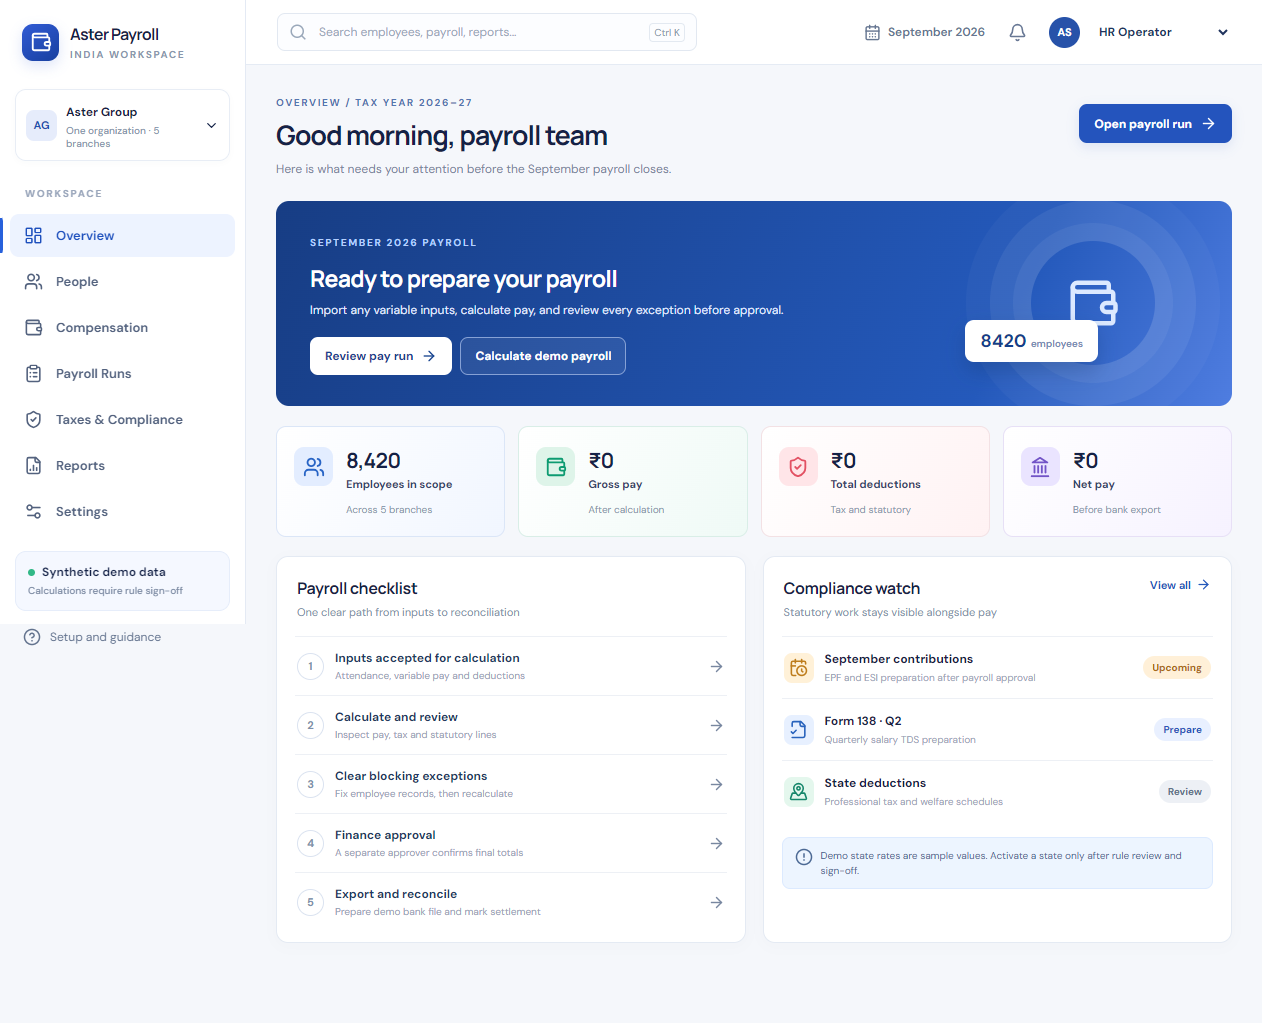
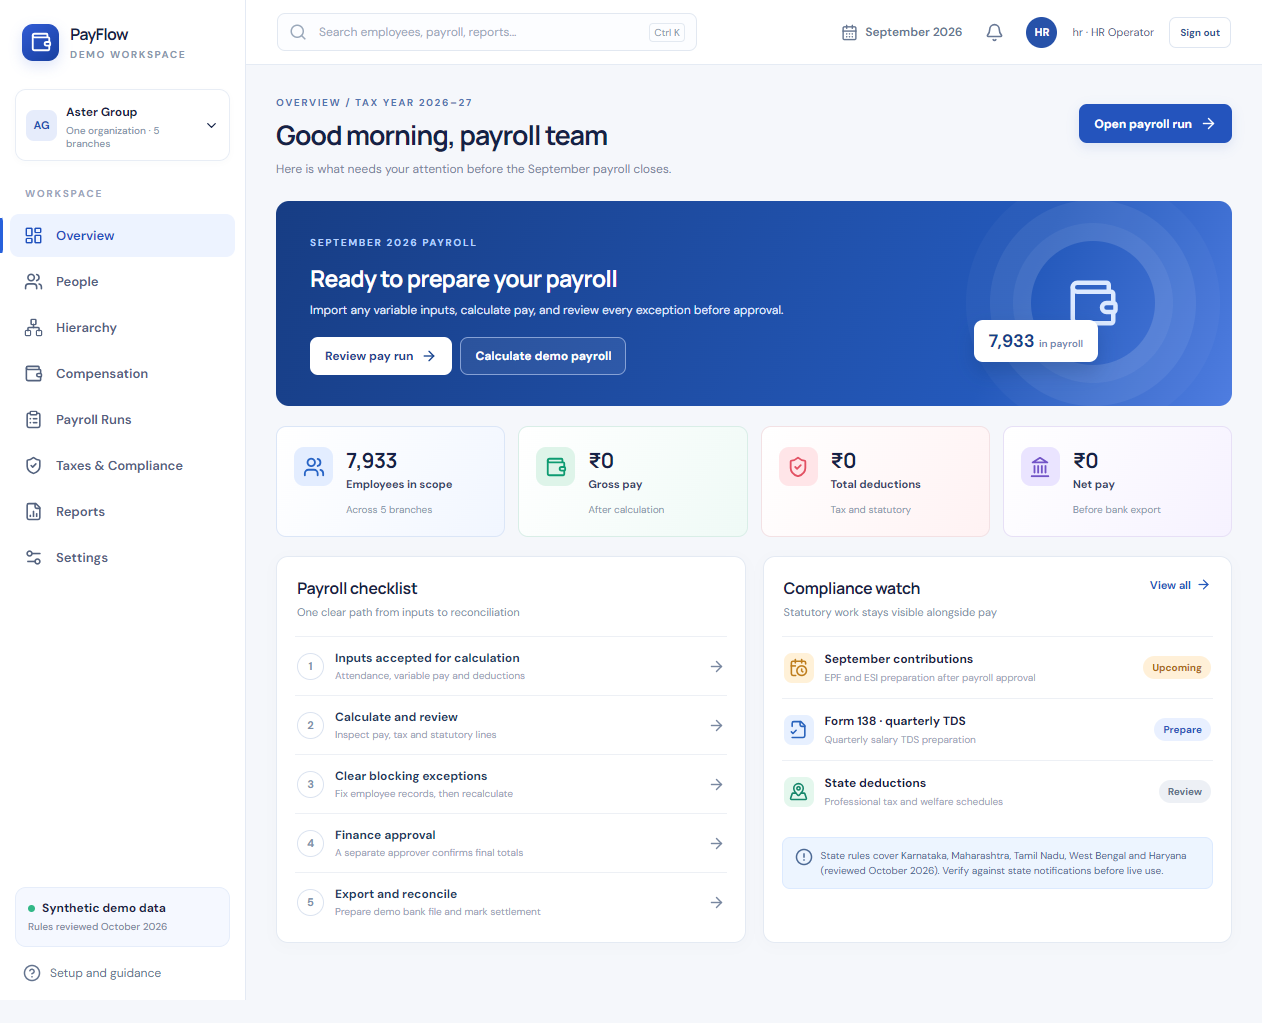
docs: update README and screenshots for the Phase 1 architecture

diff --git a/README.md b/README.md
@@ -1,5 +1,7 @@
 # PayFlow — India payroll workspace
 
+[![CI](https://github.com/mehulp007/PayFlow/actions/workflows/ci.yml/badge.svg)](https://github.com/mehulp007/PayFlow/actions/workflows/ci.yml)
+
 PayFlow is a full-stack payroll application for Indian companies. It covers the whole monthly cycle: employee
 records and hierarchy, CSV input import with validation, salary calculation (income tax, EPF, ESI and state
 deductions), exception review, maker-checker approval, payslips, statutory preparation reports and an audit trail.
@@ -9,35 +11,54 @@ Employees get a self-service portal for their own record, tax-regime choice and 
 > October 2026, but it is not a certified payroll product and its exports are not government or bank upload
 > formats. See [compliance notes](docs/compliance-notes.md).
 
+![Payroll review](docs/screenshots/payroll-review.png)
+
 ## Roadmap
 
 PayFlow is being rebuilt from its first prototype in phases. Each phase is committed and pushed when complete.
 
-| Phase | Scope | Status |
-|---|---|---|
-| 0 · Baseline & cleanup | Rebrand to PayFlow, remove hosting/mobile code, run locally with zero setup | ✅ Done |
-| Compliance review | Rules updated to October 2026 regulations: Labour Codes wage definition, EPF ₹25,000 ceiling with the September split, ESI period rules, state PT/LWF | ✅ Done |
-| 1 · Engineering foundation | Shared Zod schemas, Drizzle migrations, modular Fastify API, React Router + TanStack Query, readable components, Vitest + API integration tests, CI | ⏳ Next |
-| 2 · Multi-tenant sandbox | Sign up and create an organization, start empty or load a sample company, tenant isolation, invitations, any pay period, salary revisions, state rule tables | Planned |
-| 3 · Features | Payslip PDFs and history, tax-regime calculator, analytics dashboard, leave & attendance, notifications, Ctrl-K palette, dark mode, audit log page | Planned |
-| 4 · Docs polish | Refreshed screenshots, architecture walkthrough | Planned |
+| Phase                      | Scope                                                                                                                                                                  | Status  |
+| -------------------------- | ---------------------------------------------------------------------------------------------------------------------------------------------------------------------- | ------- |
+| 0 · Baseline & cleanup     | Rebrand to PayFlow, remove hosting/mobile code, run locally with zero setup                                                                                            | ✅ Done |
+| Compliance review          | Rules updated to October 2026 regulations: Labour Codes wage definition, EPF ₹25,000 ceiling with the September split, ESI period rules, state PT/LWF                  | ✅ Done |
+| 1 · Engineering foundation | Shared Zod schemas, Drizzle migrations, modular Fastify API, React Router + TanStack Query, readable components and CSS, unit/integration/end-to-end tests, ESLint, CI | ✅ Done |
+| 2 · Multi-tenant sandbox   | Sign up and create an organization, start empty or load a sample company, tenant isolation, invitations, any pay period, salary revisions, state rule tables           | ⏳ Next |
+| 3 · Features               | Payslip PDFs and history, tax-regime calculator, analytics dashboard, leave & attendance, notifications, Ctrl-K palette, dark mode, audit log page                     | Planned |
+| 4 · Docs polish            | Architecture walkthrough and final screenshots                                                                                                                         | Planned |
 
-## Tech stack
-
-| Part | Stack |
-|---|---|
-| `apps/web` | React 19, Vite, TypeScript, lucide-react icons, hand-written CSS |
-| `apps/api` | Node.js 24, Fastify 5, TypeScript, PGlite (embedded PostgreSQL) or PostgreSQL |
-| `packages/core` | Pure TypeScript payroll and tax calculation library (all money in integer paise) |
+## Architecture
 
 ```mermaid
 flowchart LR
-  Web["React web app<br/>apps/web"] -->|"HTTP /api"| API["Fastify API<br/>apps/api"]
-  API -->|"calculatePayroll()"| Core["Calculation library<br/>packages/core"]
-  API --> Store["SQL adapter<br/>apps/api/src/db.ts"]
-  Store -->|"default"| Local[(PGlite in ./data)]
-  Store -->|"DATABASE_URL set"| PG[(PostgreSQL)]
+  subgraph Browser
+    Web["apps/web<br/>React 19 · React Router · TanStack Query"]
+  end
+  subgraph Node["Node.js 24"]
+    API["apps/api<br/>Fastify 5 · Zod validation"]
+    Core["packages/core<br/>payroll and tax rules"]
+    DB["Drizzle ORM + migrations"]
+  end
+  Shared["packages/shared<br/>roles, permissions, schemas, types"]
+  Web -->|"HTTP /api (bearer session)"| API
+  API --> Core
+  API --> DB
+  DB -->|"default"| PGlite[("PGlite (embedded) in ./data")]
+  DB -->|"DATABASE_URL set"| PG[("PostgreSQL")]
+  Shared -.-> Web
+  Shared -.-> API
 ```
+
+| Workspace         | Responsibility                                                                                                                                                                       |
+| ----------------- | ------------------------------------------------------------------------------------------------------------------------------------------------------------------------------------ |
+| `packages/core`   | Pure calculation library in integer paise: income tax, Labour Codes wages, EPF/EPS/EDLI, ESI, state PT/LWF. No I/O.                                                                  |
+| `packages/shared` | One source of truth used by both apps: roles and the permission matrix, Zod request schemas and response types.                                                                      |
+| `apps/api`        | Fastify app built by `buildApp()`. Feature modules (`auth`, `employees`, `runs`) each have routes and a service; a preHandler resolves the session and enforces permissions.         |
+| `apps/web`        | React app with real URLs (`/overview`, `/payroll`, `/hierarchy`, `/me`, …), a TanStack Query data layer, shared UI components and design tokens in CSS split by area (`src/styles`). |
+
+**Database.** The schema lives in [`apps/api/src/db/schema.ts`](apps/api/src/db/schema.ts). SQL migrations are
+generated with `npm run db:generate -w @payflow/api` and applied automatically at start-up. PGlite (real
+PostgreSQL compiled to WebAssembly) runs inside the API process, so there is nothing to install; set
+`DATABASE_URL` to use a PostgreSQL server instead.
 
 ## Quick start
 
@@ -49,30 +70,30 @@ npm run dev
 ```
 
 Open <http://127.0.0.1:5173>. The API runs on port 4000. On first launch it creates a synthetic company
-("Aster Group", 8,420 fictional people across five Indian states) in `data/payroll-pg`.
+("Aster Group", 8,420 fictional people across five Indian states) in `data/db`.
 
 ### Sign in
 
 Six accounts are created on first launch, each with its own random password. The passwords are written to
 `data/individual-demo-credentials.txt` on your machine (ignored by Git).
 
-| Username | Role |
-|---|---|
-| `admin` | Organization admin: manage accounts, reset demo data |
-| `hr` | HR operator: people, hierarchy, payroll preparation |
-| `payroll` | Payroll operator: import and calculate |
-| `finance` | Finance approver: approve and reconcile |
-| `auditor` | Read-only review and reports |
-| `employee` | Employee self-service for `EMP00001` |
+| Username   | Role                                                 |
+| ---------- | ---------------------------------------------------- |
+| `admin`    | Organization admin: manage accounts, reset demo data |
+| `hr`       | HR operator: people, hierarchy, payroll preparation  |
+| `payroll`  | Payroll operator: import and calculate               |
+| `finance`  | Finance approver: approve and reconcile              |
+| `auditor`  | Read-only review and reports                         |
+| `employee` | Employee self-service for `EMP00001`                 |
 
-To use an external PostgreSQL database instead of the embedded one, set `DATABASE_URL` before `npm run dev`.
+To start over, stop the app and delete the `data/` folder.
 
 ## Try the payroll journey
 
 1. Sign in as `hr` and open **Payroll Runs**. Import [sample inputs](samples/payroll-inputs.csv) or use the
    preloaded ones, then **Calculate**.
 2. Twelve employees have missing bank details, which block submission. Verify them from the **Needs attention**
-   panel and recalculate.
+   panel and recalculate. Open any row to see its calculation trace and the rules applied.
 3. **Send for approval**, then sign in as `finance` and approve. The preparer can never approve their own run.
 4. Export the demo bank file and preparation reports, then simulate reconciliation.
 5. Sign in as `employee` to see only your own record, choose a tax regime (while the run is in draft) and view the
@@ -94,23 +115,38 @@ To use an external PostgreSQL database instead of the embedded one, set `DATABAS
   separate finance approval, and an audit event for every key action.
 - **People**: a searchable directory, an 8-level position hierarchy with five employment types, and contractors
   kept outside payroll.
-- **Access**: password sessions (scrypt hashing, hashed tokens, 12-hour expiry), role-based permissions, login
-  rate limiting, admin-issued one-time passwords and a forced first-password change.
+- **Access**: password sessions (scrypt hashing, hashed tokens, 12-hour expiry), a shared role-permission matrix,
+  login rate limiting and lockout, admin-issued one-time passwords and a forced first-password change.
 
-## Interface (v1 screenshots)
+## Interface
 
-![Sign-in](docs/screenshots/login.png)
-![Overview](docs/screenshots/hr-overview.png)
-![Payroll review](docs/screenshots/payroll-review.png)
-![Employee portal](docs/screenshots/employee-portal.png)
+| Sign-in                                                      | Overview                                                 |
+| ------------------------------------------------------------ | -------------------------------------------------------- |
+| ![Sign-in](docs/screenshots/login.png)                       | ![Overview](docs/screenshots/hr-overview.png)            |
+| **Calculation trace**                                        | **Employee portal**                                      |
+| ![Calculation trace](docs/screenshots/calculation-trace.png) | ![Employee portal](docs/screenshots/employee-portal.png) |
+
 ![Hierarchy](docs/screenshots/hierarchy.png)
+
+## Testing
+
+| Command             | What it checks                                                                                                       |
+| ------------------- | -------------------------------------------------------------------------------------------------------------------- |
+| `npm test`          | 30 statutory rule cases in the calculation library, and 23 API integration tests against an in-memory database       |
+| `npm run e2e`       | Playwright journey in a real browser: HR prepares, Finance approves and reconciles, the employee views their payslip |
+| `npm run typecheck` | TypeScript across all four workspaces                                                                                |
+| `npm run lint`      | ESLint (TypeScript and React hooks rules)                                                                            |
+| `npm run format`    | Prettier                                                                                                             |
+
+The API tests boot the real app with `buildApp()` on PGlite in memory, covering sessions and lockout, the
+temporary-password gate, role permissions, employee self-service limits, hierarchy validation, imports, the
+exception gate, maker-checker approval, exports and demo reset. Locally, `npm run e2e` uses Microsoft Edge; CI
+installs Chromium. GitHub Actions runs every check on each push.
 
 ## Scripts
 
-| Command | What it does |
-|---|---|
-| `npm run dev` | Start the API and web app together |
-| `npm run typecheck` | Type-check every workspace |
-| `npm test` | Run the calculation library tests (30 statutory rule cases) |
-| `npm run build` | Production build of all workspaces |
-| `npm run smoke` | End-to-end API check against a running local API (full run, access control, approval gate) |
+| Command                               | What it does                                  |
+| ------------------------------------- | --------------------------------------------- |
+| `npm run dev`                         | Start the API and web app together            |
+| `npm run build`                       | Production build of all workspaces            |
+| `npm run db:generate -w @payflow/api` | Generate a migration after editing the schema |

diff --git a/docs/compliance-notes.md b/docs/compliance-notes.md
@@ -11,15 +11,15 @@ against the official portals before relying on any figure.
 
 ### Income tax: Income-tax Act, 2025 (in force from 1 April 2026), tax year 2026-27
 
-| Item | Rule |
-|---|---|
-| New regime (default) | Nil to ₹4L · 5% to ₹8L · 10% to ₹12L · 15% to ₹16L · 20% to ₹20L · 25% to ₹24L · 30% above |
-| Old regime | Nil to ₹2.5L (₹3L at 60+, ₹5L at 80+) · 5% to ₹5L · 20% to ₹10L · 30% above |
-| Standard deduction | ₹75,000 new regime, ₹50,000 old regime |
-| Rebate | New: up to ₹60,000 for taxable income up to ₹12L, with marginal relief just above. Old: up to ₹12,500 up to ₹5L |
-| Surcharge and cess | 10% / 15% / 25% / 37% (new regime capped at 25%) with marginal relief; 4% health and education cess |
+| Item                 | Rule                                                                                                                                                                                                                                                                                                              |
+| -------------------- | ----------------------------------------------------------------------------------------------------------------------------------------------------------------------------------------------------------------------------------------------------------------------------------------------------------------- |
+| New regime (default) | Nil to ₹4L · 5% to ₹8L · 10% to ₹12L · 15% to ₹16L · 20% to ₹20L · 25% to ₹24L · 30% above                                                                                                                                                                                                                        |
+| Old regime           | Nil to ₹2.5L (₹3L at 60+, ₹5L at 80+) · 5% to ₹5L · 20% to ₹10L · 30% above                                                                                                                                                                                                                                       |
+| Standard deduction   | ₹75,000 new regime, ₹50,000 old regime                                                                                                                                                                                                                                                                            |
+| Rebate               | New: up to ₹60,000 for taxable income up to ₹12L, with marginal relief just above. Old: up to ₹12,500 up to ₹5L                                                                                                                                                                                                   |
+| Surcharge and cess   | 10% / 15% / 25% / 37% (new regime capped at 25%) with marginal relief; 4% health and education cess                                                                                                                                                                                                               |
 | Monthly TDS (s. 392) | Annual tax is projected from salary paid earlier in the year, this month's actual pay and regular pay for the remaining months. Months before joining are not counted, and this month's loss of pay is not extrapolated. Tax already deducted is subtracted, and the balance is spread over the remaining months. |
-| Returns | Quarterly salary TDS statement is **Form 138** (replaces 24Q); the annual certificate is **Form 130** (replaces Form 16) |
+| Returns              | Quarterly salary TDS statement is **Form 138** (replaces 24Q); the annual certificate is **Form 130** (replaces Form 16)                                                                                                                                                                                          |
 
 ### Wages: Code on Wages, 2019 and Code on Social Security, 2020 (in force from 21 November 2025)
 
@@ -31,33 +31,33 @@ against the official portals before relying on any figure.
 
 ### EPF, EPS and EDLI
 
-| Item | Rule |
-|---|---|
-| Wage ceiling | ₹15,000 until 16 Sep 2026; **₹25,000 from 17 Sep 2026** (S.O. 5109(E)) |
-| September 2026 | Split by days per EPFO FAQs: 1–16 Sep on the ₹15,000 ceiling, 17–30 Sep on ₹25,000, reported in one ECR |
-| Employee | 12% of PF wages (actual wages if the member contributes voluntarily above the ceiling) |
-| Employer | 8.33% EPS on wages within the ceiling (EPS members only); the rest of the 12% to EPF |
-| EPS exit | EPS stops on the 58th birthday (split by days that month); the full employer 12% then goes to EPF |
+| Item           | Rule                                                                                                           |
+| -------------- | -------------------------------------------------------------------------------------------------------------- |
+| Wage ceiling   | ₹15,000 until 16 Sep 2026; **₹25,000 from 17 Sep 2026** (S.O. 5109(E))                                         |
+| September 2026 | Split by days per EPFO FAQs: 1–16 Sep on the ₹15,000 ceiling, 17–30 Sep on ₹25,000, reported in one ECR        |
+| Employee       | 12% of PF wages (actual wages if the member contributes voluntarily above the ceiling)                         |
+| Employer       | 8.33% EPS on wages within the ceiling (EPS members only); the rest of the 12% to EPF                           |
+| EPS exit       | EPS stops on the 58th birthday (split by days that month); the full employer 12% then goes to EPF              |
 | EDLI and admin | 0.5% each (EDLI on wages within the ceiling). The ₹500/month establishment minimum is not applied per employee |
 
 ### ESI
 
-| Item | Rule |
-|---|---|
-| Rates | 0.75% employee, 3.25% employer, on statutory wages |
-| Ceiling | ₹21,000 a month, decided at the start of each contribution period (April–September, October–March). Coverage continues until the period ends even if wages rise |
-| Low wage | No employee share at an average daily wage up to ₹176 |
-| Rounding | Each share is rounded up to the next rupee |
+| Item     | Rule                                                                                                                                                            |
+| -------- | --------------------------------------------------------------------------------------------------------------------------------------------------------------- |
+| Rates    | 0.75% employee, 3.25% employer, on statutory wages                                                                                                              |
+| Ceiling  | ₹21,000 a month, decided at the start of each contribution period (April–September, October–March). Coverage continues until the period ends even if wages rise |
+| Low wage | No employee share at an average daily wage up to ₹176                                                                                                           |
+| Rounding | Each share is rounded up to the next rupee                                                                                                                      |
 
 ### State rules: professional tax and labour welfare fund
 
-| State | Professional tax | Labour welfare fund (employee + employer) |
-|---|---|---|
-| Karnataka | ₹200/month from ₹25,000 gross; ₹300 in February (2025 amendment) | ₹50 + ₹100, December |
-| Maharashtra | Men: ₹175 (₹7,501–10,000), ₹200 above; women exempt up to ₹25,000; ₹300 in February | ₹25 + ₹75, June and December |
-| Tamil Nadu | Greater Chennai Corporation half-yearly slab (₹180 to ₹1,250), deducted in September and March | ₹20 + ₹40, December |
-| West Bengal | ₹110 / ₹130 / ₹150 / ₹200 monthly slabs above ₹10,000 | ₹3 + ₹30, June and December |
-| Haryana | Not levied | 0.2% of wages up to ₹35 (from Jan 2026), employer twice, monthly |
+| State       | Professional tax                                                                               | Labour welfare fund (employee + employer)                        |
+| ----------- | ---------------------------------------------------------------------------------------------- | ---------------------------------------------------------------- |
+| Karnataka   | ₹200/month from ₹25,000 gross; ₹300 in February (2025 amendment)                               | ₹50 + ₹100, December                                             |
+| Maharashtra | Men: ₹175 (₹7,501–10,000), ₹200 above; women exempt up to ₹25,000; ₹300 in February            | ₹25 + ₹75, June and December                                     |
+| Tamil Nadu  | Greater Chennai Corporation half-yearly slab (₹180 to ₹1,250), deducted in September and March | ₹20 + ₹40, December                                              |
+| West Bengal | ₹110 / ₹130 / ₹150 / ₹200 monthly slabs above ₹10,000                                          | ₹3 + ₹30, June and December                                      |
+| Haryana     | Not levied                                                                                     | 0.2% of wages up to ₹35 (from Jan 2026), employer twice, monthly |
 
 States without a reviewed rule are **blocked** until rules are added. Maharashtra employees without a recorded
 gender get a review warning, because the women's exemption cannot be applied.
@@ -67,7 +67,7 @@ gender get a review warning, because the women's exemption cannot be applied.
 - Tamil Nadu PT uses six times the current month's gross as the half-yearly income, and slabs vary by local
   body; the Chennai corporation slab is used.
 - Salary paid and tax deducted earlier in the year are inputs. Until the app tracks multiple months, they default
-  to the regular salary since joining and no prior TDS.
+  to the regular salary since joining with TDS deducted evenly, so the current month carries one month's share.
 - Not yet modelled: HRA exemption and old-regime declarations in detail, perquisites, employer PF above ₹7.5L,
   arrears, gratuity accrual, minimum-wage checks, mid-month joins/exits, and the ESI disability ceiling (₹25,000).
 
@@ -89,15 +89,15 @@ marked `DEMO ONLY`.
 
 ## What a live payroll service would still need
 
-| Gate | Evidence required |
-|---|---|
-| Employer discovery | Signed salary structures, pay groups, active states, registrations, bank layout, approval matrix |
-| Rules | Specialist sign-off on the interpretations above, plus minimum wages, gratuity and every active state |
-| Calculation | Component ledger, prior-month comparison, retro adjustments, immutable approved results |
-| Identity & privacy | SSO, MFA for approval/export, maker-checker, encryption of PAN/bank/UAN, access logs |
-| Statutory outputs | Portal-schema validation for ECR, ESI, Form 138 and state returns |
-| Payments | Bank-specific upload template, dual control, exact reconciliation |
-| Operations | Managed PostgreSQL, backups and restore drill, monitoring, incident runbook |
-| Acceptance | Two parallel payroll cycles reconciled against an existing system, employer sign-off |
+| Gate               | Evidence required                                                                                     |
+| ------------------ | ----------------------------------------------------------------------------------------------------- |
+| Employer discovery | Signed salary structures, pay groups, active states, registrations, bank layout, approval matrix      |
+| Rules              | Specialist sign-off on the interpretations above, plus minimum wages, gratuity and every active state |
+| Calculation        | Component ledger, prior-month comparison, retro adjustments, immutable approved results               |
+| Identity & privacy | SSO, MFA for approval/export, maker-checker, encryption of PAN/bank/UAN, access logs                  |
+| Statutory outputs  | Portal-schema validation for ECR, ESI, Form 138 and state returns                                     |
+| Payments           | Bank-specific upload template, dual control, exact reconciliation                                     |
+| Operations         | Managed PostgreSQL, backups and restore drill, monitoring, incident runbook                           |
+| Acceptance         | Two parallel payroll cycles reconciled against an existing system, employer sign-off                  |
 
 As a safeguard, the API refuses to start with `NODE_ENV=production`.
